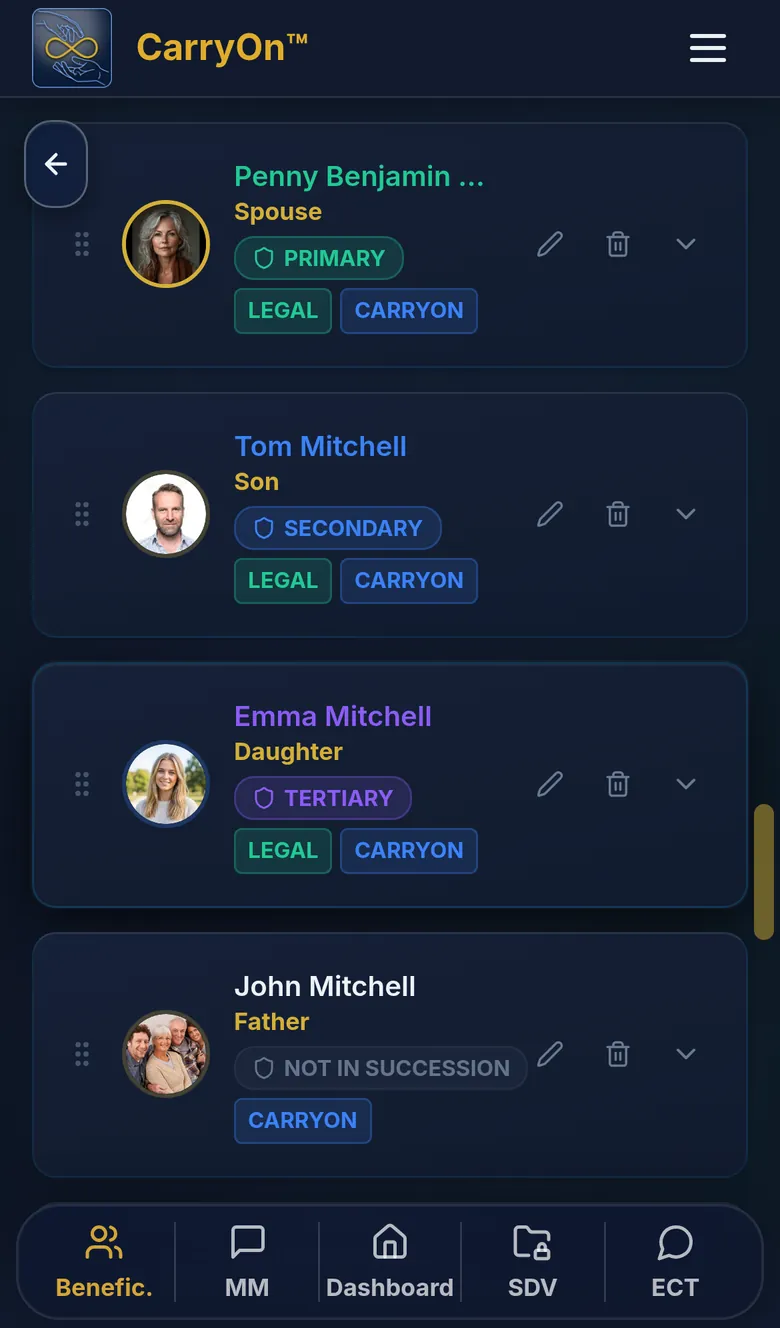
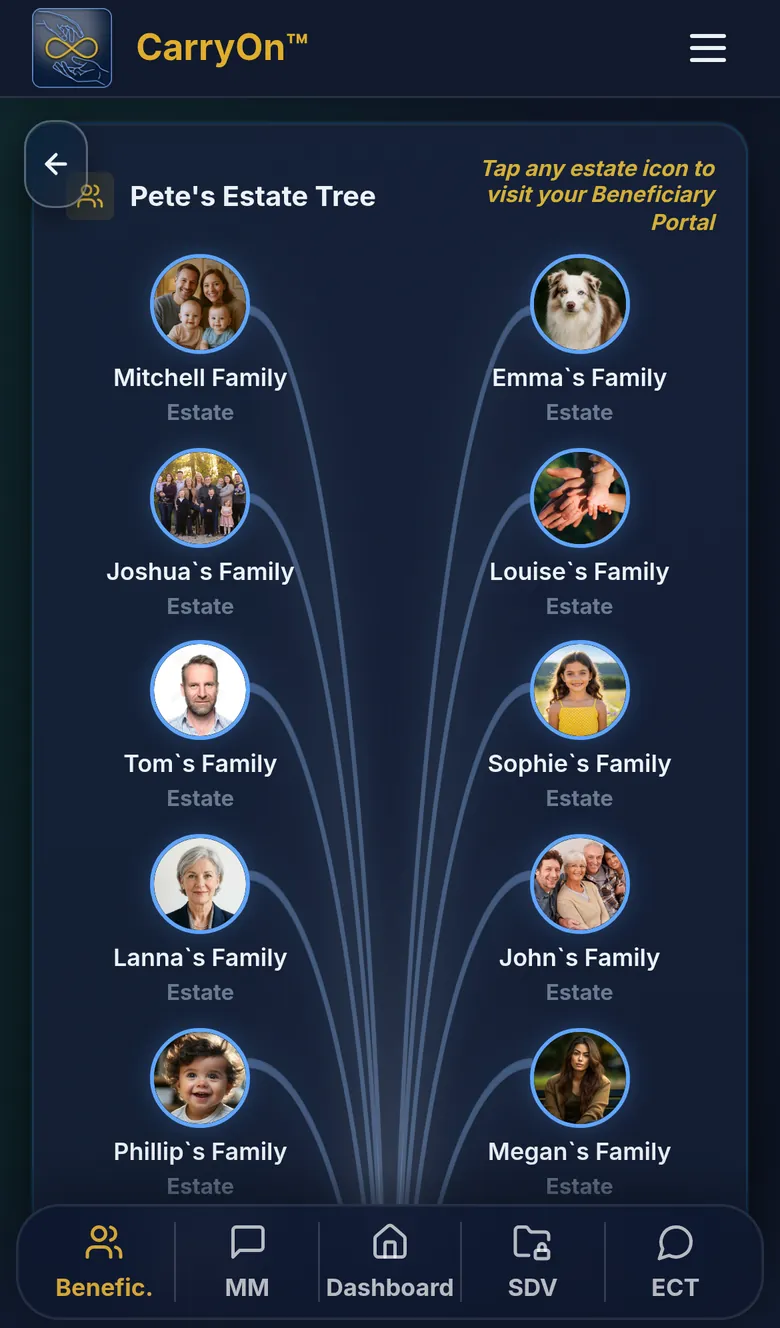
## "Who to call first" phone shot now shows the Estate Tree (VERIFIED, NOT PUSHED) - `m-contacts.webp` re-captured from `petemitchell` on carryon.us starting at **Pete's Estate Tree** — the two-column tree with Mitchell, Emma's, Joshua's, Louise's, Tom's, Sophie's, Lanna's, John's, Phillip's and Meg
Emergent-Commit-Key: 7ca76481c8a1c63ea53f2482cd4bf69709279c91f7e08db354de978bf6727c46

Changed region(s): [[0.0308, 0.1235, 1.0, 0.9262], [0.0923, 0.7718, 0.1231, 0.8027], [0.0923, 0.3705, 0.1231, 0.4014]]

diff --git a/frontend/public/sw-push.js b/frontend/public/sw-push.js
@@ -15,7 +15,7 @@
 // ── Versioning ──────────────────────────────────────────────────────────────
 // Bump SHELL_VERSION whenever the list of precached shell assets or the
 // caching strategy changes — triggers a cache purge on next SW activation.
-const SHELL_VERSION = 'build-2026-09-19-mu8y2w9z';
+const SHELL_VERSION = 'build-2026-09-19-mu906qfo';
 const SHELL_CACHE = `carryon-shell-${SHELL_VERSION}`;
 const RUNTIME_CACHE = `carryon-runtime-${SHELL_VERSION}`;
 const API_CACHE = `carryon-api-${SHELL_VERSION}`;

diff --git a/scripts/capture_product_screenshots.py b/scripts/capture_product_screenshots.py
@@ -23,8 +23,8 @@ CHECKLIST_MOBILE_CSS = """@media (max-width: 639px) {
 # Dashboard: start the shot at the Total Family Continuity meter (founder directive, Sep 19 2026) —
 # the welcome line, beneficiary vault banner and onboarding group above it stay out of the preview.
 METER_SELECTORS = '[data-testid="readiness-card"], [data-testid="readiness-card-side"], [data-testid="core-pillars-card"]'
-# Phone shots (founder, Sep 19 2026): "Who to call first" starts at the people list, "Document vault" at the document cards.
-PEOPLE_SELECTOR = '[data-testid="beneficiary-tiles"]'
+# Phone shots (founder, Sep 19 2026): "Who to call first" starts at the Estate Tree panel, "Document vault" at the document cards.
+PEOPLE_SELECTOR = '[data-testid="family-tree-panel"]'
 DOCS_SELECTOR = '[data-testid^="document-"]:not([data-testid="document-vault"])'
 # Scrolls the topmost visible match to just under the fixed/sticky header (window or nearest scroll container).
 SCROLL_TO_JS = """(sel) => {

diff --git a/memory/PRD.md b/memory/PRD.md
@@ -574,7 +574,7 @@ bug — fix it in the preview DB immediately (snippet in
 - Hardcoded `rgba(212,175,55,…)` → `var(--gold-rgb)` sweep.
 
 ### Last verified end-to-end working item
-**Sep 19 2026 (night, later) — Phone product shots start at the content (NOT PUSHED).** `m-contacts.webp` opens on the beneficiary tiles, `m-vault.webp` on the document cards (header / buttons / explainers scrolled out; desktop unchanged). `capture_product_screenshots.py` `PAGES` rows carry desktop + phone scroll targets. Verified on the `/home` phone frame; check.sh ALL CLEAR. **Founder next**: push → Vercel → phone → "See inside CarryOn" → "Who to call first" / "Document vault".
+**Sep 19 2026 (night, later) — Phone product shots start at the content (NOT PUSHED).** `m-contacts.webp` opens on Pete's Estate Tree (founder: the tree, not the tiles), `m-vault.webp` on the document cards (header / buttons / explainers scrolled out; desktop unchanged). `capture_product_screenshots.py` `PAGES` rows carry desktop + phone scroll targets. Verified on the `/home` phone frame; check.sh ALL CLEAR. **Founder next**: push → Vercel → phone → "See inside CarryOn" → "Who to call first" / "Document vault".
 
 **Sep 19 2026 (latest, night) — `/benefactor` paid-traffic acquisition page + Premium tag (NOT PUSHED).** New ad destination `pages/BenefactorPage.js` + `components/benefactor/*`, copy in `copy/siteCopyBenefactor.js` (Site Copy → "Benefactor landing page"). Logo + Sign In only; single Premium card from the live catalog with the live `trial_days` (10 on prod, preview mirrored); `?v=all` = three-plan variant; 5th "Messages for later" preview tab (kept on the homepage too, founder decision); free CTAs → `/signup`, "Subscribe today" → `/start?plan=premium&cycle=monthly`. Signups from the page carry `preferred_plan` + `landing_page` (`UserCreate` → `users` doc → `/auth/me`); `SubscriptionManagement` + `SubscriptionPaywall` highlight that plan. iteration_210 backend 5/5, frontend 100 %; check.sh ALL CLEAR. **Founder next**: push → open `/benefactor` logged out (desktop + phone), Messages tab, throwaway signup → `/subscription` opens on Premium; send the first ad to `/benefactor?utm_source=…`.
 

diff --git a/memory/CHANGELOG.md b/memory/CHANGELOG.md
@@ -3,8 +3,8 @@
 
 ## Sep 19, 2026 (night, later) — Phone product shots start at the content — VERIFIED, NOT PUSHED
 
-- `m-contacts.webp` ("Who to call first", phone) now opens on the **beneficiary tiles** (Penny · Primary, Tom · Secondary, Emma · Tertiary, John) and `m-vault.webp` ("Document vault", phone) on the **document cards** (Last Will & Testament, Life Insurance Policy) — page header, Add / Upload buttons and explainer cards are scrolled out. Desktop shots unchanged. Re-captured from `petemitchell` on carryon.us.
-- `scripts/capture_product_screenshots.py`: `PAGES` rows now carry a desktop and a phone scroll target (`SCROLL_TO_JS(sel)` scrolls the topmost visible match under the fixed header); phone targets `[data-testid="beneficiary-tiles"]` and the first `[data-testid^="document-"]` card. Only account-specific nudges are hidden — the floating mobile back button stays visible over the first card's corner because that is what the phone really shows. README updated; check.sh ALL CLEAR.
+- `m-contacts.webp` ("Who to call first", phone) now opens on **Pete's Estate Tree** (the two-column family tree — Mitchell, Emma's, Joshua's, Louise's, Tom's, Sophie's, Lanna's, John's, Phillip's, Megan's families; founder asked for the tree, not the tiles) and `m-vault.webp` ("Document vault", phone) on the **document cards** (Last Will & Testament, Life Insurance Policy) — page header, Add / Upload buttons and explainer cards are scrolled out. Desktop shots unchanged. Re-captured from `petemitchell` on carryon.us.
+- `scripts/capture_product_screenshots.py`: `PAGES` rows now carry a desktop and a phone scroll target (`SCROLL_TO_JS(sel)` scrolls the topmost visible match under the fixed header); phone targets `[data-testid="family-tree-panel"]` and the first `[data-testid^="document-"]` card. Only account-specific nudges are hidden — the floating mobile back button stays visible over the first card's corner because that is what the phone really shows. README updated; check.sh ALL CLEAR.
 - **Founder next**: push → Vercel → on the phone, open carryon.us, "See inside CarryOn" → "Who to call first" and "Document vault".
 
 

diff --git a/frontend/public/screenshots/README.md b/frontend/public/screenshots/README.md
@@ -16,7 +16,7 @@ Continuity 72%, 10 beneficiaries, 7 documents, 59-item IAC).
 "Critical – Do Immediately" group expanded. `dashboard` starts at the **Total Family Continuity
 meter** (founder directive, Sep 19 2026) — the welcome line, beneficiary vault banner and onboarding
 group above it are scrolled out of frame, on both desktop and phone. **Phone shots** of `contacts`
-and `vault` start at the **people list** / the **document cards** (founder, Sep 19 2026) — the page
+and `vault` start at the **Estate Tree panel** / the **document cards** (founder, Sep 19 2026) — the page
 header, Add / Upload buttons and explainer cards are scrolled out; desktop shots keep the header.
 Scroll targets per page live in `PAGES` in the capture script (desktop target, phone target).
 
